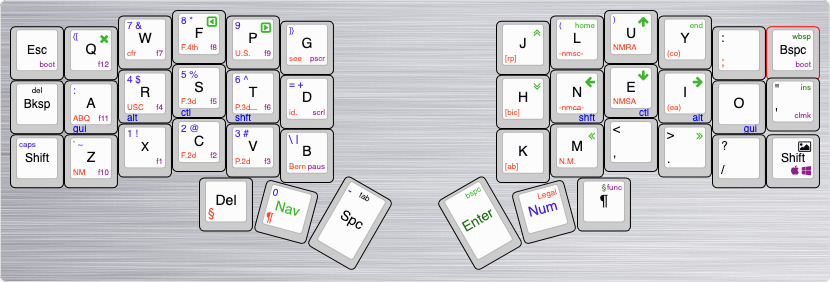
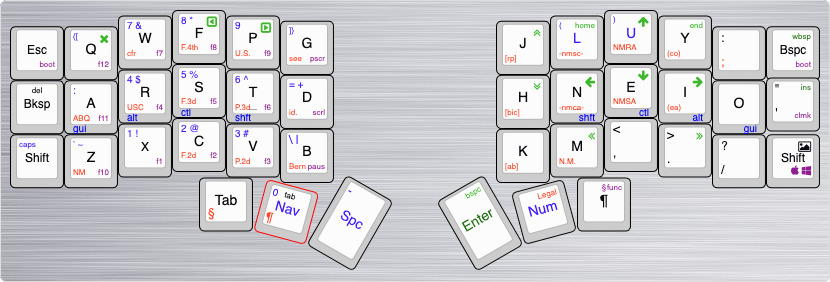
messing around with tab basically

diff --git a/keymap.c b/keymap.c
@@ -68,7 +68,7 @@ const key_override_t para_key_override = ko_make_basic(MOD_MASK_SHIFT, DZ_PARA, 
 // This globally defines all key overrides to be used
 const key_override_t **key_overrides = (const key_override_t *[]){
     &delete_key_override,
-    &shift_key_override,
+//    &shift_key_override,
     &para_key_override,
     NULL // Null terminate the array of overrides!
 };
@@ -99,7 +99,8 @@ const uint32_t unicode_map[] PROGMEM = {
 #define DZ_RQOT UM(U_RQOT) 
 #define DZ_EMDS UM(U_MDASH)  
 
-
+//#define DZL1 MO(_NAV)
+#define DZL1 LT(_NAV, KC_TAB)
 
 const uint16_t PROGMEM keymaps[][MATRIX_ROWS][MATRIX_COLS] = {
   [_COLEMAK] = LAYOUT_split_3x6_3(
@@ -110,7 +111,7 @@ const uint16_t PROGMEM keymaps[][MATRIX_ROWS][MATRIX_COLS] = {
   //|--------+--------+--------+--------+--------+--------|                    |--------+--------+--------+--------+--------+--------|
        DZ_OSS,    KC_Z,    KC_X,    KC_C,    KC_V,    KC_B,                         KC_K,    KC_M, KC_COMM,  KC_DOT, KC_SLSH, DZ_OSSR,
   //|--------+--------+--------+--------+--------+--------+--------|  |--------+--------+--------+--------+--------+--------+--------|
-                                           KC_DEL,MO(_NAV),  KC_SPC,     KC_ENT,MO(_NUM),PARASEC
+                                           KC_TAB,    DZL1,  KC_SPC,     KC_ENT,MO(_NUM),PARASEC
                                       //`--------------------------'  `--------------------------'
 
   ),
@@ -131,7 +132,7 @@ const uint16_t PROGMEM keymaps[][MATRIX_ROWS][MATRIX_COLS] = {
   //,-----------------------------------------------------.                    ,-----------------------------------------------------.
       _______, DZ_CLSE, XXXXXXX, DZ_VDLT, DZ_VDRT, XXXXXXX,                      KC_PGUP, KC_HOME,   KC_UP,  KC_END, XXXXXXX,   WBSPC,
   //|--------+--------+--------+--------+--------+--------|                    |--------+--------+--------+--------+--------+--------|
-      _______, DZ_LGUI, DZ_LALT, DZ_LCTL, DZ_LSFT, _______,                      KC_PGDN, KC_LEFT, KC_DOWN,KC_RIGHT, XXXXXXX,  KC_INS,
+       KC_DEL, DZ_LGUI, DZ_LALT, DZ_LCTL, DZ_LSFT, _______,                      KC_PGDN, KC_LEFT, KC_DOWN,KC_RIGHT, XXXXXXX,  KC_INS,
   //|--------+--------+--------+--------+--------+--------|                    |--------+--------+--------+--------+--------+--------|
       _______, _______, _______, _______, _______, _______,                      XXXXXXX,   WLEFT, _______,  WRIGHT, XXXXXXX, DZ_SCAP,
   //|--------+--------+--------+--------+--------+--------+--------|  |--------+--------+--------+--------+--------+--------+--------|

diff --git a/dizave.h b/dizave.h
@@ -123,7 +123,5 @@ enum my_keycodes {
 //#define DZ_SPC  LSFT_T(KC_SPC)
 #define DZ_OSS  OSM(MOD_LSFT)
 #define DZ_OSSR OSM(MOD_RSFT)
-
-// Legal macros that are not keycodes
 #define DZ_LAW  OSL(_LEGAL)
-
+//#define DZ_ENT  LT(layer, KC_ENT) 
